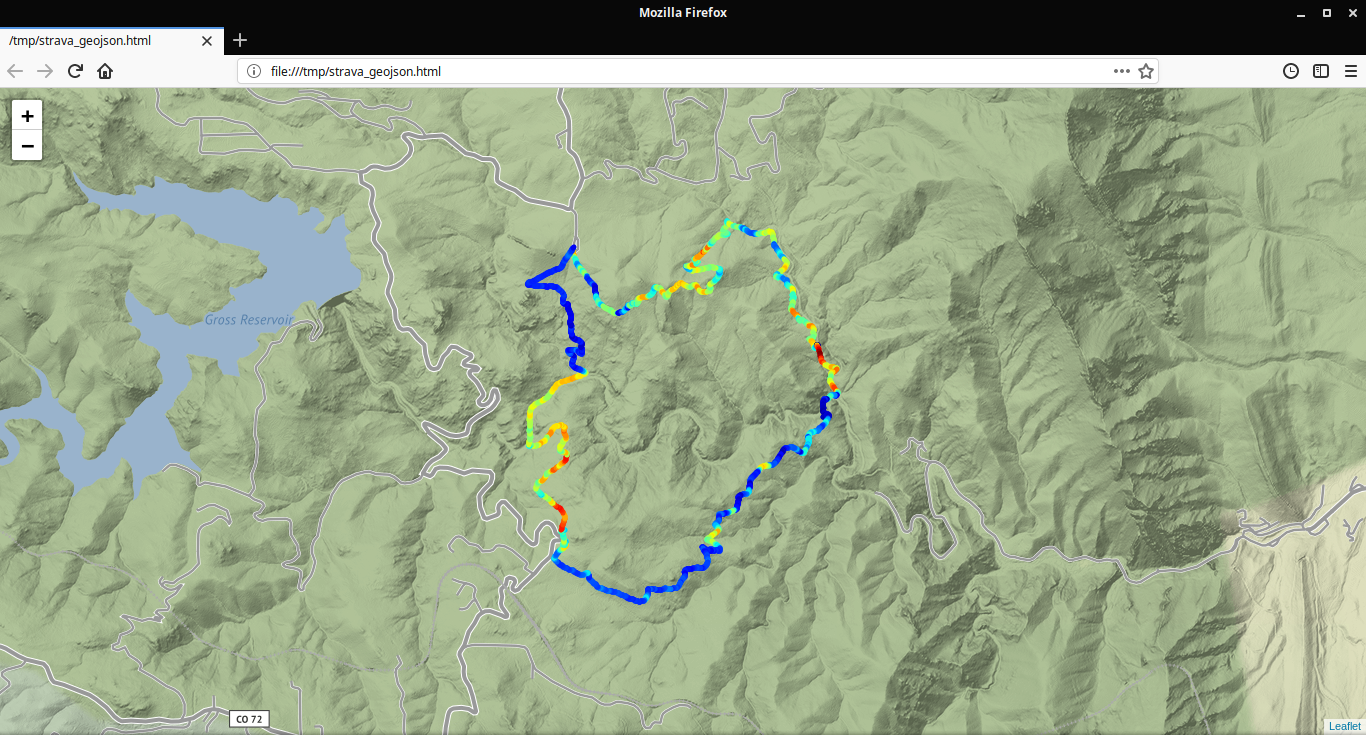
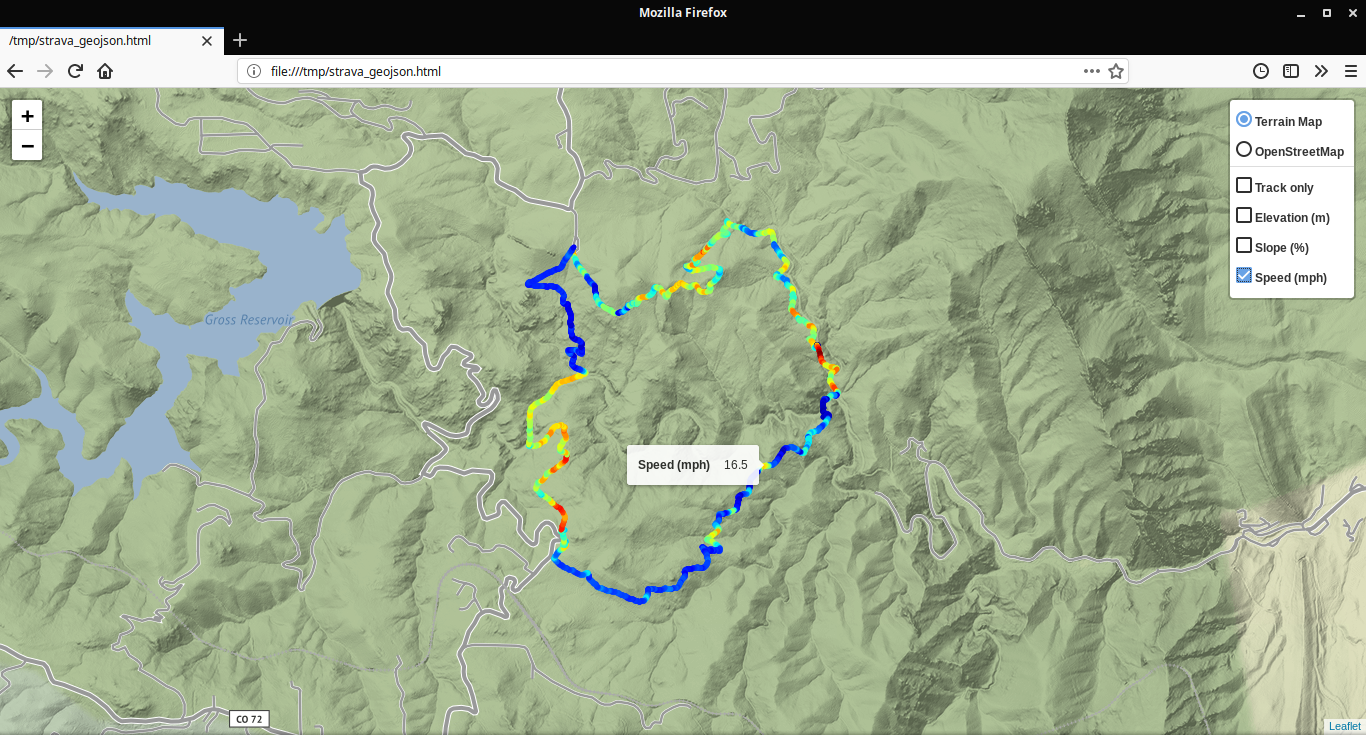
Re-rewrite code

Changed region(s): [[0.8917, 0.0898, 1.0, 0.419], [0.4612, 0.5986, 0.5842, 0.6884], [0.7994, 0.0898, 0.8609, 0.1197]]

diff --git a/strava_geojson.py b/strava_geojson.py
@@ -33,13 +33,13 @@ from scipy.signal import medfilt
 
 # functions
 def rgb2hex(c):
-    hex = '#%02x%02x%02x'%(int(c[0]*255), int(c[1]*255), int(c[2]*255))
-    return(hex)
+    hexc = '#%02x%02x%02x'%(int(c[0]*255), int(c[1]*255), int(c[2]*255))
+    return(hexc)
 
-def gpx2geojson(gpx_file, geojson_file, param):
+def gpx2geojson(gpx_file, geojson_file, param, use_SI):
     # parameters
     rider_weight = param[0] # kg
-    bike_weight =param[1] # kg
+    bike_weight = param[1] # kg
 
     # constants
     rider_bike_frontal_area = 0.632 # m^2 (from https://www.cyclingpowerlab.com/cyclingaerodynamics.aspx)
@@ -49,7 +49,7 @@ def gpx2geojson(gpx_file, geojson_file, param):
     air_density = 1.225 # kg/m^3
     g = 9.80665 # m/s^2
 
-    if rider_weight <= 0 or bike_weight <= 0:
+    if rider_weight*bike_weight == 0:
         get_power_data = False
     else:
         get_power_data = True
@@ -124,6 +124,14 @@ def gpx2geojson(gpx_file, geojson_file, param):
             if power > 0:
                 power_data[i] = power
 
+    # convert units
+    if use_SI:
+        speed_data = speed_data*3.6 # m/s to km/h
+    else:
+        speed_data = speed_data*2.236936 # m/s to mph
+
+    slope_data = slope_data*100 # decimal to %
+
     # create GeoJSON feature collection
     features = []
 
@@ -131,9 +139,9 @@ def gpx2geojson(gpx_file, geojson_file, param):
         line = geojson.LineString([(lat_lon_data[i-1, 1], lat_lon_data[i-1, 0]), (lat_lon_data[i, 1], lat_lon_data[i, 0])]) # (lon,lat) to (lon,lat) format
 
         if get_power_data:
-            feature = geojson.Feature(geometry = line, properties = {'elevation': float('%.1f'%elevation_data[i]), 'slope': float('%.1f'%(slope_data[i]*100)), 'speed': float('%.1f'%(speed_data[i]*2.236936)), 'power': float('%.1f'%power_data[i])})
+            feature = geojson.Feature(geometry = line, properties = {'elevation': float('%.1f'%elevation_data[i]), 'slope': float('%.1f'%slope_data[i]), 'speed': float('%.1f'%speed_data[i]), 'power': float('%.1f'%power_data[i])})
         else:
-            feature = geojson.Feature(geometry = line, properties = {'elevation': float('%.1f'%elevation_data[i]), 'slope': float('%.1f'%(slope_data[i]*100)), 'speed': float('%.1f'%(speed_data[i]*2.236936))})
+            feature = geojson.Feature(geometry = line, properties = {'elevation': float('%.1f'%elevation_data[i]), 'slope': float('%.1f'%slope_data[i]), 'speed': float('%.1f'%speed_data[i])})
 
         features.append(feature)
 
@@ -145,58 +153,85 @@ def gpx2geojson(gpx_file, geojson_file, param):
 
     return
 
-def geojson2folium(geojson_file, data_vis):
+def geojson2folium(geojson_file, use_SI):
     # read GeoJSON file
     with open(geojson_file, 'r') as file:
         geojson_data = geojson.load(file)
 
-    # Folium style function
-    if data_vis == 'track': # show some color...
-        f = lambda x: {'color': '#FC4C02', 'weight': 5}
-    else: # show color from matplotlib colormap
-        cmap = cm.get_cmap('jet')
+    # check for power data
+    if 'power' in geojson_data[0]['properties']:
+        use_power_data = True
+    else:
+        use_power_data = False
 
-        cmin = min(feature['properties'][data_vis] for feature in geojson_data['features'])
-        cmax = max(feature['properties'][data_vis] for feature in geojson_data['features'])
+    # set speed unit
+    if use_SI:
+        speed_unit = '(km/h)'
+    else:
+        speed_unit = '(mph)'
 
-        f = lambda x: {'color': rgb2hex(cmap((x['properties'][data_vis]-cmin)/(cmax-cmin))), 'weight': 5} # cmap needs normalized data
+    # set up Folium map
+    fmap = folium.Map(tiles = None)
+    folium.TileLayer(tiles = 'Stamen Terrain', name = 'Terrain Map', show = True).add_to(fmap)
+    folium.TileLayer(tiles = 'OpenStreetMap', name = 'OpenStreetMap', show = False).add_to(fmap)
 
-    # Folium tooltip
-    if data_vis == 'track':
-        t = None
-    elif data_vis == 'elevation':
-        t = folium.features.GeoJsonTooltip(fields = [data_vis], aliases = ['Elevation (m)'])
-    elif data_vis == 'slope':
-        t = folium.features.GeoJsonTooltip(fields = [data_vis], aliases = ['Slope (%)'])
-    elif data_vis == 'speed':
-        t = folium.features.GeoJsonTooltip(fields = [data_vis], aliases = ['Speed (mph)'])
-    elif data_vis == 'power':
-        t = folium.features.GeoJsonTooltip(fields = [data_vis], aliases = ['Power (watt)'])
+    cmap = cm.get_cmap('jet') # matplotlib colormap
 
-    # add GeoJSON data to Folium map
-    map = folium.Map()
+    f_track = lambda x: {'color': '#FC4C02', 'weight': 5} # show some color...
 
-    folium.GeoJson(geojson_data, style_function = f, tooltip = t).add_to(map)
+    folium.GeoJson(geojson_data, style_function = f_track, name = 'Track only', show = True).add_to(fmap)
 
-    map.fit_bounds(map.get_bounds())
+    cmin_elevation = min(feature['properties']['elevation'] for feature in geojson_data['features'])
+    cmax_elevation = max(feature['properties']['elevation'] for feature in geojson_data['features'])
+    f_elevation = lambda x: {'color': rgb2hex(cmap((x['properties']['elevation']-cmin_elevation)/(cmax_elevation-cmin_elevation))), 'weight': 5} # cmap needs normalized data
+    t_elevation = folium.features.GeoJsonTooltip(fields = ['elevation'], aliases = ['Elevation (m)'])
+
+    folium.GeoJson(geojson_data, style_function = f_elevation, tooltip = t_elevation, name = 'Elevation (m)', show = False).add_to(fmap)
+
+    cmin_slope = min(feature['properties']['slope'] for feature in geojson_data['features'])
+    cmax_slope = max(feature['properties']['slope'] for feature in geojson_data['features'])
+    f_slope = lambda x: {'color': rgb2hex(cmap((x['properties']['slope']-cmin_slope)/(cmax_slope-cmin_slope))), 'weight': 5} # cmap needs normalized data
+    t_slope = folium.features.GeoJsonTooltip(fields = ['slope'], aliases = ['Slope (%)'])
+
+    folium.GeoJson(geojson_data, style_function = f_slope, tooltip = t_slope, name = 'Slope (%)', show = False).add_to(fmap)
+
+    cmin_speed = min(feature['properties']['speed'] for feature in geojson_data['features'])
+    cmax_speed = max(feature['properties']['speed'] for feature in geojson_data['features'])
+    f_speed = lambda x: {'color': rgb2hex(cmap((x['properties']['speed']-cmin_speed)/(cmax_speed-cmin_speed))), 'weight': 5} # cmap needs normalized data
+    t_speed = folium.features.GeoJsonTooltip(fields = ['speed'], aliases = ['Speed '+speed_unit])
+
+    folium.GeoJson(geojson_data, style_function = f_speed, tooltip = t_speed, name = 'Speed '+speed_unit, show = False).add_to(fmap)
+
+    if use_power_data:
+        cmin_power = min(feature['properties']['power'] for feature in geojson_data['features'])
+        cmax_power = max(feature['properties']['power'] for feature in geojson_data['features'])
+        f_power = lambda x: {'color': rgb2hex(cmap((x['properties']['power']-cmin_power)/(cmax_power-cmin_power))), 'weight': 5} # cmap needs normalized data
+        t_power = folium.features.GeoJsonTooltip(fields = ['power'], aliases = ['Power (watt)'])
+
+        folium.GeoJson(geojson_data, style_function = f_power, tooltip = t_power, name = 'Power (watt)', show = False).add_to(fmap)
+
+    folium.LayerControl(collapsed = False).add_to(fmap)
 
     # save map to html file
-    html = 'strava_geojson.html'
+    fmap.fit_bounds(fmap.get_bounds())
 
-    map.save(html)
+    html_file = 'strava_geojson.html'
+
+    fmap.save(html_file)
 
     # open html file in default browser
-    webbrowser.open(html, new = 2, autoraise = True)
+    webbrowser.open(html_file, new = 2, autoraise = True)
 
     return
 
 def main(args): # main script
     # parse arguments
-    gpx_filename = args.gpxfile
-    geojson_filename = args.geojsonfile
-    data_vis = args.data
-    rider_weight = args.riderweight*0.45359237 # lbs to kg
-    bike_weight = args.bikeweight*0.45359237 # lbs to kg
+    gpx_filename = args.gpxfile # str
+    geojson_filename = args.geojsonfile # str
+    visualize = args.visualize # bool
+    use_SI = args.SI # bool
+    rider_weight = args.riderweight if use_SI else args.riderweight*0.45359237 # float (kg)
+    bike_weight = args.bikeweight if use_SI else args.bikeweight*0.45359237 # float (kg)
 
     if not gpx_filename[-4:] == '.gpx':
         print('ERROR: --input is not a GPX file')
@@ -206,12 +241,8 @@ def main(args): # main script
         print('ERROR: --output is not a GeoJSON file')
         quit()
 
-    if data_vis not in ('none', 'track', 'elevation', 'slope', 'speed', 'power'):
-        print('ERROR: --visualize option be none, track, elevation, slope, speed or power')
-        quit()
-
-    if data_vis == 'power' and (rider_weight <= 0 or bike_weight <= 0):
-        print('ERROR: --rider_weight and --bike_weight must be specified to visualize power')
+    if (rider_weight > 0 and bike_weight <= 0) or (rider_weight <= 0 and bike_weight > 0):
+        print('ERROR: --rider_weight and --bike_weight must be both specified to calculate power')
         quit()
 
     # get GPX and GeoJSON filenames
@@ -224,20 +255,22 @@ def main(args): # main script
     geojson_file = geojson_filename if geojson_filename else gpx_file[:-4]+'.geojson' # use GPX filename if not specified
 
     # write GeoJSON file
-    gpx2geojson(gpx_file, geojson_file, [rider_weight, bike_weight])
+    gpx2geojson(gpx_file, geojson_file, [rider_weight, bike_weight], use_SI)
 
     # visualize GeoJSON file with Folium
-    if data_vis is not 'none':
-        geojson2folium(geojson_file, data_vis)
+    if visualize:
+        geojson2folium(geojson_file, use_SI)
 
 if __name__ == '__main__':
     # command line parameters
     parser = argparse.ArgumentParser(description = 'Extract track, elevation, slope, speed and power data from Strava GPX files, export to GeoJSON files and visualize in browser', epilog = 'Report issues to https://github.com/remisalmon/Strava-to-GeoJSON')
     parser.add_argument('--input', dest = 'gpxfile', default = '*.gpx', help = 'input .gpx file')
     parser.add_argument('--output', dest = 'geojsonfile', default = '', help = 'output .geojson file')
-    parser.add_argument('--visualize', dest = 'data', default = 'none', help = 'open the .geojson file in the default browser as a color-coded map; DATA = track, elevation, slope, speed, power or none (default: none)')
+    parser.add_argument('--visualize', dest = 'visualize', action = 'store_true', help = 'visualize the .geojson file on an interactive map (opens new browser tap)')
     parser.add_argument('--rider-weight', dest = 'riderweight', type = float, default = 0, help = 'rider weight for power calculation, RIDERWEIGHT in lbs (default: 0)')
     parser.add_argument('--bike-weight', dest = 'bikeweight', type = float, default = 0, help = 'bike weight for power calculation, BIKEWEIGHT in lbs (default: 0)')
+    parser.add_argument('--SI-units', dest = 'SI', action = 'store_true', help = 'use SI units for speed (km/h) and --rider-weight, --bike-weight inputs (kg) if specified')
+
     args = parser.parse_args()
 
     main(args)
